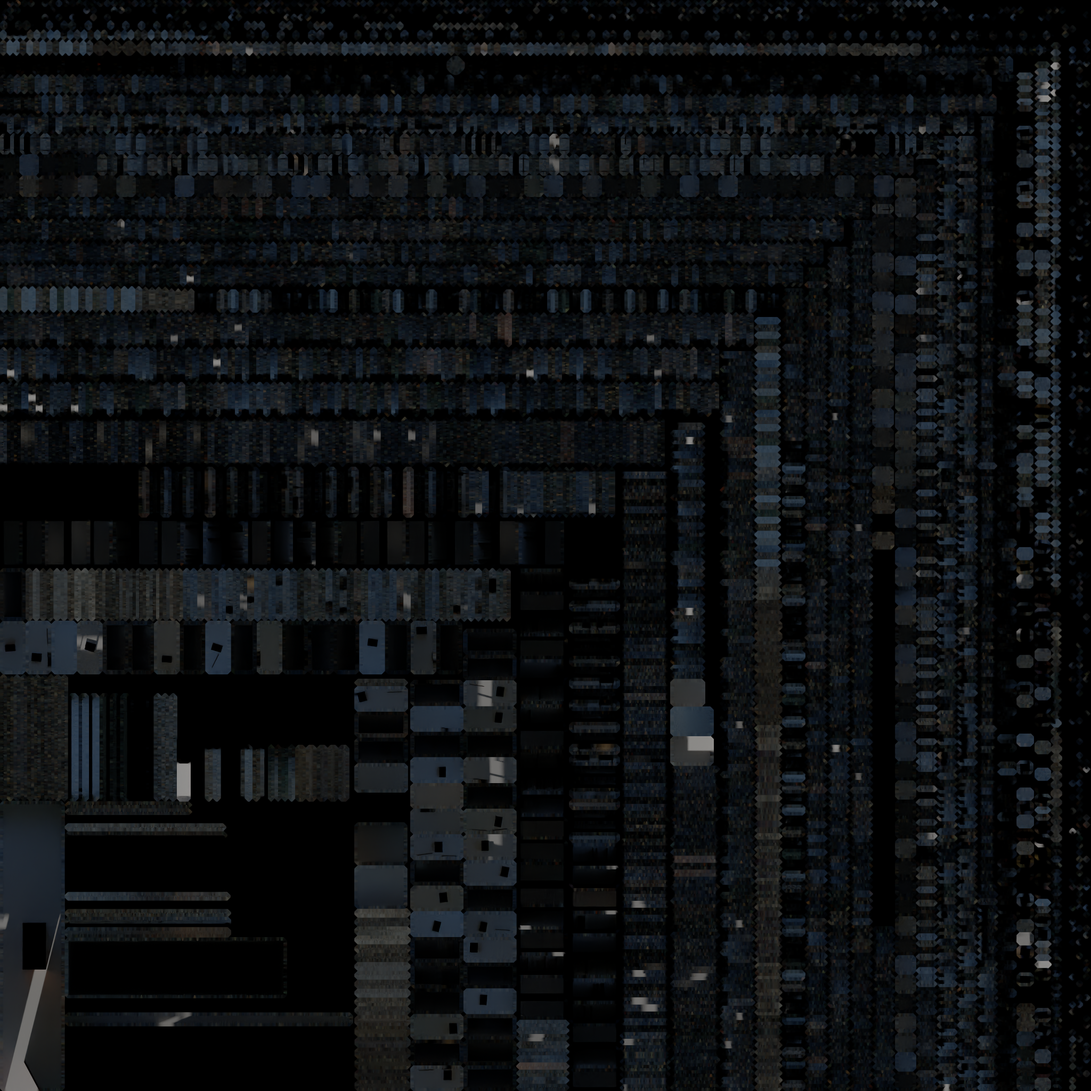
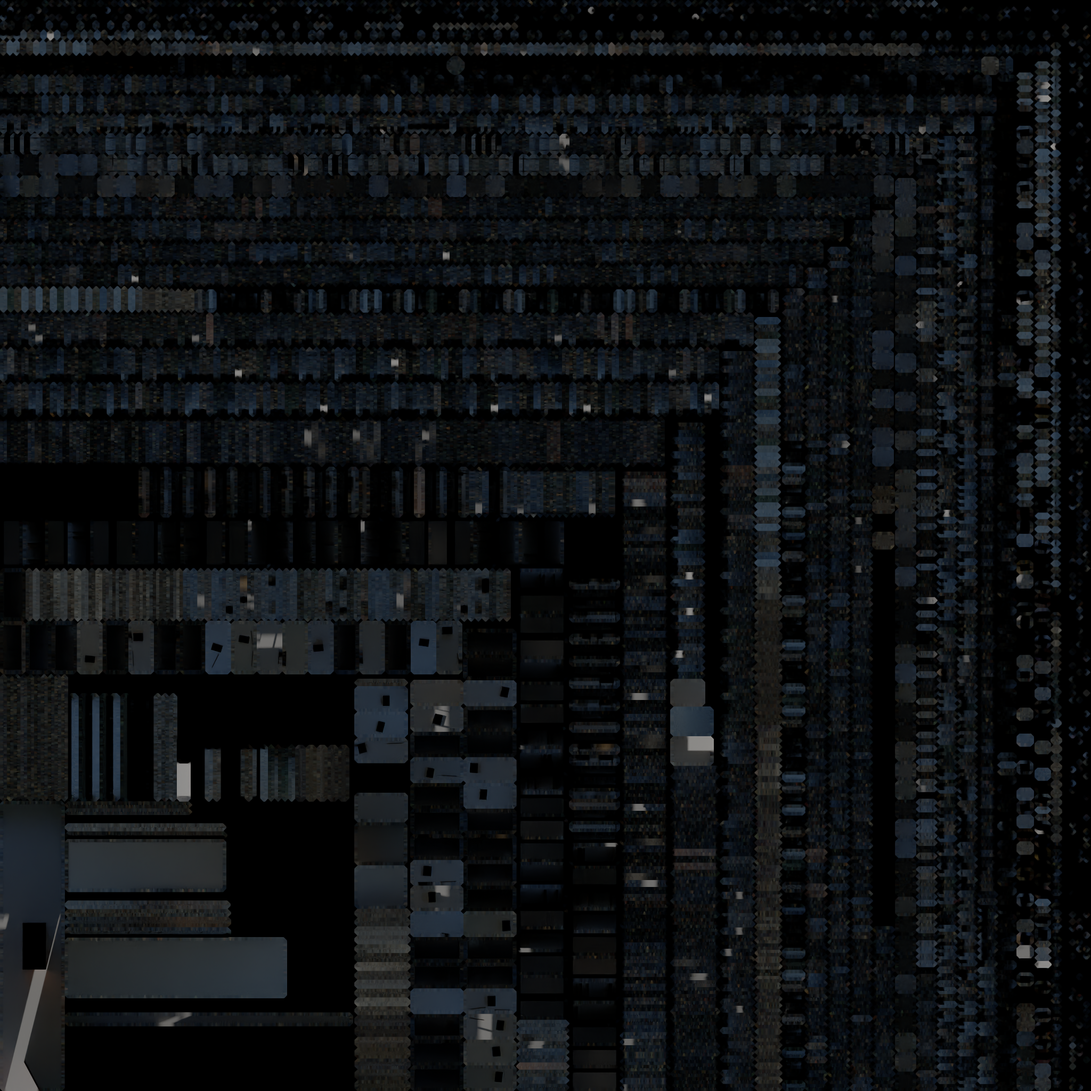
feat(films): v2 — final bakes, dawn fallback, reframed ending, crane ambience, README
Claude-Session: https://claude.ai/code/session_01KSor8V8y1ZhHms7ptLHN65

diff --git a/films/spring-no-recipient-v2/film/film.js b/films/spring-no-recipient-v2/film/film.js
@@ -122,10 +122,10 @@ const SHOTS = [
     cam: [K(144.6, [1.05, 88.4, 1.7], [-12.0, 91.2, 1.25], 44), K(149.6, [0.85, 88.9, 1.68], [-12.0, 91.6, 1.25], 44)] },
   { name: 'stclock', t0: 149.6, t1: 154.6, light: 'morning', env: [-3, 70, 2.5], wind: 0.6,
     cam: [K(149.6, [-5.0, 68.4, 2.5], [-2.0, 72.0, 3.9], 30), K(154.6, [-4.8, 68.9, 2.55], [-2.0, 72.0, 3.92], 27)] },
-  { name: 'dawnfall', rays: 0.8, t0: 154.6, t1: 159.6, light: (t) => ['morning', 'dawn', ramp(t, 155.0, 158.6)], env: [-14, 50, 2], mist: (t) => ramp(t, 155.5, 159.6) * 0.5,
+  { name: 'dawnfall', rays: 0.8, t0: 154.6, t1: 159.6, light: (t) => ['morning', 'dawn', ramp(t, 155.0, 158.6)], env: [-14, 50, 2], mist: (t) => ramp(t, 155.5, 159.6) * 0.32,
     cam: [K(154.6, [-14.0, 62.0, 1.6], [-10.0, 10.0, 2.6], 50), K(159.6, [-14.2, 59.5, 1.6], [-10.0, 8.0, 2.6], 50)] },
-  { name: 'silence', t0: 159.6, t1: 171.6, light: 'dawn', env: [-4, 0, 2.5], interior: true, mist: 0.55, sash: 30,
-    cam: [K(159.6, [-4.55, -0.65, 2.78], [-9.5, 0.5, 0.5], 46), K(171.6, [-4.95, -0.42, 2.72], [-9.5, 0.6, 0.4], 44)] },
+  { name: 'silence', t0: 159.6, t1: 171.6, light: 'dawn', env: [-4, 0, 2.5], interior: true, mist: 0.28, sash: 72,
+    cam: [K(159.6, [-4.1, 0.55, 2.5], [-7.6, 0.15, 1.55], 42), K(171.6, [-4.45, 0.5, 2.44], [-7.6, 0.2, 1.5], 40)] },
 ];
 
 // ------------------------------------------------------------------ camera
@@ -219,10 +219,10 @@ function applyLight(sh, t) {
     const g = m.userData.group, has = (s) => W.bakeIndex[g] && W.bakeIndex[g][s];
     let gain = 1;
     // groups without a night bake: dusk light scaled down to roughly moonlight
-    const NG = 0.004;
-    if (!has(b) && b === 'night') gain = lerp(1, NG, k);
-    if (!has(a) && a === 'night') gain = lerp(NG, 1, k);
-    if (a === 'night' && b === 'night' && !has('night')) gain = NG;
+    // (any state without its own bake borrows dusk, scaled by the ratio of scene levels)
+    const LVL = { dusk: 1.0, morning: 1.2, dawn: 0.014, night: 0.004 };
+    const fb = (s) => has(s) ? 1 : (LVL[s.replace('_nosun', '')] ?? 1) / (has('dusk') ? 1 : 1);
+    gain = lerp(fb(a), fb(b), k);
     m.userData.lmLocalGain.value = gain;
   }
   return { a, b, k };
@@ -249,7 +249,7 @@ function applyWorld(sh, t) {
   const wind = typeof sh.wind === 'function' ? sh.wind(t) : (sh.wind ?? 0.3);
   U.uWind.value = wind;
   U.uMist.value = typeof sh.mist === 'function' ? sh.mist(t) : (sh.mist ?? 0);
-  U.uMistCol.value.copy(U.uFogCol.value).multiplyScalar(1.25);
+  U.uMistCol.value.copy(U.uFogCol.value).multiplyScalar(0.85);
   // the window sash: wide open for the passage in poem one, half open in poem two
   const sashDeg = sh.sash ?? (t < 100 ? 88 : 30);
   W.sashPivot.rotation.y = -sashDeg * Math.PI / 180;

diff --git a/films/spring-no-recipient-v2/music/score.py b/films/spring-no-recipient-v2/music/score.py
@@ -279,8 +279,11 @@ pad_chord(28.0, 12.0, "Ab2 Eb3 C4", gain=0.35, att=3.0, rel=3.0, bright=0.3)
 # ================================================================ PART TWO: the world 42-171.6
 place("sfx", drop(), 42.15, 0.5)
 # ---- ambience
-bed("water", 42.0, 58.0, 0.11, fade=1.2)
+bed("water", 42.0, 47.6, 0.11, fade=1.2)        # the crane climbs away from the water...
 bed("wind", 42.0, 58.0, 0.035)
+bed("wind", 46.0, 53.4, 0.07, fade=1.6)          # ...into open air above the roofs
+bed("reeds", 48.0, 53.0, 0.025, fade=1.4)
+bed("water", 52.4, 58.0, 0.11, fade=0.5)         # cut: back down on the water
 bed("room", 57.0, 65.8, 0.06, fade=0.8)
 bed("water", 57.0, 65.8, 0.05, src=WATER_MUFFLED)
 for k in range(8):                       # the classroom clock, quiet

diff --git a/films/spring-no-recipient-v2/README.md b/films/spring-no-recipient-v2/README.md
@@ -44,6 +44,7 @@
 ### 关键镜头
 
 - **终端 → 河**：程序输出里只剩下一个“河”字。下一帧，同一个“河”字成了水面上的倒影；一滴水落下，倒影散开，镜头从水面抬起，看见那栋楼。
+- **升起来的世界**：一个连续的升降镜头。镜头沿着爬满爬山虎的墙一路升到屋顶以上，第一次看见这条河通向哪里：它笔直地伸向地平线，经过那座桥，两岸是柳树和芦苇，黄昏的雾里有逆光的光束。
 - **穿过窗户**：镜头从河面贴水滑行，穿过那扇半开的窗进入教室。教室里有一封信，有一扇窗在阳光里下雨。之后镜头又从同一扇窗退回河面，回头看时，河的倒影里，那些窗户是亮着的（现实中它们并没有亮）。
 - **影子认出了另一个早晨**：太阳从西边倒着回来，越过头顶走到东边，窗格的影子从黄昏扫到早晨。第二首诗由此开始。
 - **月亮走过操场**：早晨的河变得清澈，看得见河底那条跑道，白天的月亮从跑道线上掠过。
@@ -69,7 +70,7 @@
 | 纹理 | `world/textures.py`：用周期性谱合成噪声，逐张合成可无缝平铺的 PBR 贴图，包括石灰墙、绿色油漆墙裙、水磨石、课桌木纹、黑板（上面留着擦不干净的旧字）、混凝土、外墙、花岗岩、瓦楞板、窗帘布、水面法线，以及没有名字的站名牌。没有使用任何照片。 |
 | 场景 | `world/build_world.py`（bpy 5.3）：三层教学楼（每层五间，钢窗、走廊、楼梯间）、主教室（28 张双人桌、56 把椅子、讲台、黑板、挂钟、吊扇、日光灯、窗帘、扫帚和水桶）、河岸、平桥、车站（站台、雨棚、灯、长椅、排队栏杆、候车室）、河床下的跑道。几何体按光照贴图分组。 |
 | 光照 | `world/bake.py`：用 Cycles 把漫反射直接光与间接光烘焙进光照贴图（不含反照率），分黄昏、早晨、凌晨、夜晚几个状态，外加“无太阳”版本供影子扫过时使用，再用 OIDN 降噪。天空使用 Blender 的多重散射天空，`world/sky.py` 把它渲染成全景图，所以 Three.js 的背景和反射与烘焙时的天空一致。 |
-| 拍摄 | `film/`（Three.js r170，离线逐帧确定性渲染）：烘焙材质（反照率 × 光照贴图，两个状态之间可以交叉过渡）、自定义河水（平面反射、折射与吸收、流动的法线；倒影可以替换成终端画面、亮着的窗户、开花的山，或者什么也不映）、阳光穿过教室的体积光和只在光里出现的灰尘、风中摆动的柳树和芦苇、远山、远处的树、高空云、白天的月亮、HDR 管线、泛光、AgX 色调映射与调色、胶片颗粒。 |
+| 拍摄 | `film/`（Three.js r170，离线逐帧确定性渲染，所有贴图与光照贴图预加载完成后才开始出帧）：烘焙材质（反照率 × 光照贴图，两个状态之间可以交叉过渡）、自定义河水（平面反射、折射与吸收、流动的法线；倒影可以替换成终端画面、亮着的窗户、开花的山，或者什么也不映）、阳光穿过教室的体积光和只在光里出现的灰尘、风中摆动的柳树和芦苇、楼墙上程序生成的爬山虎、伸到地平线的河与两岸、屏幕空间的太阳光束、车站灯下的雾光锥、远山、远处的树、高空云、白天的月亮、HDR 管线、泛光、AgX 色调映射与调色、胶片颗粒。 |
 | 终端与路口 | `film/term.html` / `film/term.js`：xterm.js 回放真实字节流，路口图用 DOM 排版；数据来自 `analysis/fork.py` 生成的 `film/data/fork.js`。 |
 | 声音 | `music/score.py`：钢琴用 FluidR3 GM（MIT）经 FluidSynth 渲染，其余全部用 numpy 合成，包括垫音、钟声、水、风、芦苇、鸟、钟表滴答、键盘声。键盘声落在 `keys.txt` 记录的真实按键时刻。 |
 | 合成 | `render/render_all.sh`：多个 Chromium（SwiftShader）进程分段渲染，经 ffmpeg 拼接；终端与河之间做 0.8 秒溶接；响度标准化到 -16 LUFS。 |
